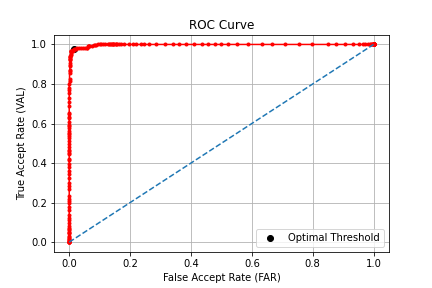
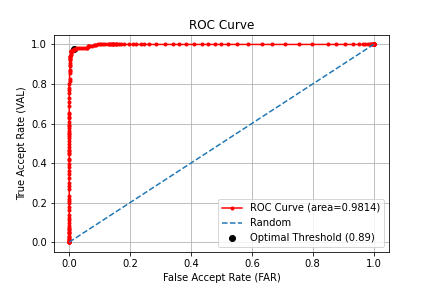
Added Media files and Updated README.md

Changed region(s): [[0.5116, 0.6875, 0.9028, 0.875]]

diff --git a/facenet/README.md b/facenet/README.md
@@ -1,8 +1,123 @@
+## Table of Content
+* [FaceNet](#facenet)
+* [W&B](#wb)
+* [AT&T Faces](#att-faces--)
+* [LFW](#lfw-)
+
 # FaceNet
 
-This is a pytorch implementation of [FaceNet](https://arxiv.org/abs/1503.03832) paper with ResNet as the backbone architechture. At first the implementation was done on AT&T Dataset of Faces, then on LFW Dataset.
+[FaceNet](https://arxiv.org/abs/1503.03832) is a face recognition system developed in 2015 by researchers at Google that achieved then state-of-the-art results. It maps the face images to euclidean space and learns on the L2 distance between the embeddings. Our paper notes on FaceNet can be found [here](https://hackmd.io/@ABD/SJa0J7_Od). 
 
-[Wandb](https://wandb.ai/) was used throughout this part of the project for metric tracking, hyperparameter tuning, visualization, etc. The wandb workspace can be viewed [here](https://wandb.ai/abd1/Face-Unlock).
+This is a pytorch implementation of FaceNet paper with ResNet as the backbone architechture. At first the implementation was done on AT&T Dataset of Faces, then on LFW Dataset.
+We used online triplet mining method for selecting triplets. 
+
+# W&B
+[Wandb](https://wandb.ai/) was used throughout this part of the <a href="https://wandb.ai/abd1/Face-Unlock" alt="wandb/Face-Unlock">project</a> for metric tracking, hyperparameter tuning, sweeps, visualization, etc. 
+
+<p align="center">
+    <img src="media/wandb.png" width="90%">
+    <img src="media/wandb_sweep.png" width="90%">
+    <br>
+    <small><a href="https://wandb.ai/abd1/Face-Unlock/runs/c9fk2oj3">(a) Metrics of ResNet18 on LFW</a> <a href="https://wandb.ai/abd1/Face-Unlock/sweeps/vq62ojvw">(b) Sweeps of ResNet18 on ATT</a></small>
+</P>
+
+
+# AT&T Faces  [![Open In Collab](https://colab.research.google.com/assets/colab-badge.svg)](https://colab.research.google.com/github/ABD-01/Face-Unlock/blob/master/facenet/FaceNet.ipynb)
+
+
+The dataset was split in [35 training classes](media/train_data_ATT.png) and [5 test classes](media/test_data_ATT.png)
+
+### Training
+
+|          Parameter          |    Value   |
+|:---------------------------:|:----------:|
+|        Architechture        |  ResNet18  |
+|     Embeddings Dimension    |     64     |
+| No. of Learnable Parameters | 11,209,344 |
+|            Epochs           |     200    |
+|        Learning Rate        |   0.0002   |
+|          Optimizer          |    Adam    |
+|          Batch Size         |     100    |
+|            Margin           |      1     |
+
+
+### Results
+|            Results           | Train Set | Test Set |
+|:----------------------------:|:---------:|:--------:|
+|           Accuracy           |    1.0    |   0.984  |
+|            Recall            |    1.0    |   0.978  |
+|           Precision          |    1.0    |   0.936  |
+|     ROC area under curve     |    1.0    |   0.981  |
+| Euclidean Distance Threshold |    0.91   |   0.89   |
+
+### Plots
+
+<p align="center">
+    <img src="media/EpochLoss_ATT.png" alt="EpochLoss"  width="400px" height="350px">
+    <img src="media/EER_ATT_testdataset.png" alt="EER Curve"  width="400px" height="350px">
+    <img src="media/ROC_curve_ATT_train_dataset.png" alt="ROC curve"  width="400px" height="350px">
+    <img src="media/ROC_curve_ATT_test_dataset.png" alt="ROC Curve"  width="400px" height="350px"> 
+    <img src="media/tSNE_embds_ATT_train.png" alt="t-SNE Embeddings"  width="400px" height="350px">
+    <br>
+    <small>(a) Epoch Loss. (b) EER Curve. (c) t-SNE Emdeddings.<br>(d) ROC Curve on train set. (e) ROC Curve on test set</small>
+</p>
 
 
 
+# LFW [![Open In Collab](https://colab.research.google.com/assets/colab-badge.svg)](https://colab.research.google.com/github/ABD-01/Face-Unlock/blob/master/facenet/FaceNet_LFW.ipynb)
+
+[Deep Funneled](http://vis-www.cs.umass.edu/lfw/#deepfunnel-anchor) set of LFW images was used for training and evaluation purpose. 
+
+The faces were extracted by center crop and then resized to match input shape. Further they were normalized overall data's mean and standard deviation.
+```py
+MEAN = torch.Tensor([0.5929, 0.4496, 0.3654])
+STD = torch.Tensor([0.2287, 0.1959, 0.1876])
+transform = transforms.Compose([
+    transforms.CenterCrop((105,105)),
+    transforms.Resize((224,224)),
+    transforms.ToTensor(),
+    transforms.Normalize(mean=MEAN, std=STD),
+])
+```
+[LFWDataset.py](./../datasets/LFWDataset.py) contains the custom dataset classes for loading LFW data in both restricted and unrestricted configurations.
+Eg,
+```py
+train_people = LFW_People(
+    root = 'lfw_funneled',
+    people_path = 'drive/MyDrive/lfw-dataset/peopleDevTrain.txt',
+    transform = transform
+)
+test_pairs = LFW_Pairs(
+    root = 'lfw_funneled',
+    pairs_path = 'drive/MyDrive/lfw-dataset/pairsDevTest.txt',
+    transform = transform
+)
+```
+
+|                                 | Training   |                                                                 |
+|---------------------------------|------------|-----------------------------------------------------------------|
+|          Architechture          |  ResNet-18 |                            ResNet-44                            |
+|     Embeddings<br> Dimension    |     128    |                               128                               |
+| No. of Learnable <br>Parameters | 11,209,344 |                            21,535,936                           |
+|              Epochs             |     100    |                                16                               |
+|          Learning Rate          |   0.0004   | start=0.05<br>ReduceLROnPlateau(factor=0.5,<br> min_lr=0.00001) |
+|            Batch Size           |     64     |                               100                               |
+
+|  Results  | ResNet18 | ResNet44 |
+|:---------:|:--------:|:--------:|
+|  Accuracy |   0.814  |   0.564  |
+|   Recall  |   0.750  |   0.459  |
+|    FAR    |   0.127  |   0.332  |
+| Precision |   0.856  |   0.58   |
+| Threshold |   1.28   |   1.36   |
+
+### Plots
+
+<p align="center">
+    <img src="media/EpochLoss_LFW.png" alt="EpochLoss"  width="400px" height="350px">
+    <img src="media/ROC_curve_LFW.png" alt="ROC curve"  width="400px" height="350px">
+    <img src="media/EpochLoss_resnet44.png" alt="EpochLoss44"  width="400px" height="350px">
+    <img src="media/ROC_curve_LFW_44.png" alt="ROC Curve"  width="400px" height="350px"> 
+    <br>
+    <small>(a) Epoch Loss. (b) EER Curve. (c) t-SNE Emdeddings.<br>(d) ROC Curve on train set. (e) ROC Curve on test set</small>
+</p>

diff --git a/README.md b/README.md
@@ -2,7 +2,7 @@
 
 This is Face-Unlock repository of IvLabs and contains the implementation of Triplet Network and FaceNet with ResNet as the backbone architechture implemented from scratch to perform one-shot and zero-shot learning on different datasets.
 
-Our work is categorized in two parts.
+Our work is categorized as following:
 
 - [x] [Triplet Network](triplet_network)
   - [X] Triplet Loss on MNIST
@@ -12,10 +12,16 @@ Our work is categorized in two parts.
 - [x] [FaceNet](facenet)
   - [x] AT&T Dataset
   - [x] LFW Dataset
+  - [ ] Glint360k Dataset
 
-Datasets
+- [ ] Real-Time Face Recognition
+  - [ ] Hosting Web based implementation
+  - [ ] Integrating with Rasberry Pi
 
-* [The AT&T face dataset, “(formerly ‘The ORL Database of Faces’)](https://git-disl.github.io/GTDLBench/datasets/att_face_dataset/) 
+
+## Datasets
+
+* [The AT&T face dataset](https://git-disl.github.io/GTDLBench/datasets/att_face_dataset/) 
   
     There are 10 different images of each of 40 distinct subjects.
 
@@ -34,12 +40,16 @@ Datasets
     1. 13233 images
     2. 5749 people
     3. 1680 people with two or more images
-  
+
+## ResNet
+
+A part of this project was also to understand and implement Residual Networks from scratch which can be found in [model.py](model.py)
 
 References
 
 - [Deep Residual Learning for Image Recognition](https://arxiv.org/abs/1512.03385)
 - [Understanding and visualizing ResNets](https://towardsdatascience.com/understanding-and-visualizing-resnets-442284831be8)
 - [FaceNet: A Unified Embedding for Face Recognition and Clustering](https://arxiv.org/abs/1503.03832)
+- [Triplet Loss and Online Triplet Mining in TensorFlow](https://omoindrot.github.io/triplet-loss)
 - [facenet-pytorch-glint360k](https://github.com/tamerthamoqa/facenet-pytorch-glint360k)
 

diff --git a/triplet_network/README.md b/triplet_network/README.md
@@ -34,7 +34,7 @@ The model was trained only on `100 images of classes 0, 1 and 2`, rest images we
 | Accuracy | 97.99% | 98.60% | 97.85% | 95.85% | 99.79% | 97.28% | 99.83% | 89.20% | 98.73% | 98.31% |
 
 
-## [Triplet Net on AT&T Dataset](Triplet%20Net%20ORL) [![Open In Collab](https://colab.research.google.com/assets/colab-badge.svg)](https://colab.research.google.com/github/ABD-01/Siamese-NN/blob/master/Siamese_ORL_ResNet/Siamese_ORL(ResNet).ipynb)
+## [Triplet Net on AT&T Dataset](Triplet%20Net%20ATT) [![Open In Collab](https://colab.research.google.com/assets/colab-badge.svg)](https://colab.research.google.com/github/ABD-01/Face-Unlock/blob/master/triplet_network/Triplet%20Net%20ATT/Siamese_ORL(ResNet).ipynb)
 
 
 The dataset was first used to train model with simple CNN, later ResNets implemented from scratch were used for different aproaches.
@@ -54,4 +54,6 @@ Offline triplet selection method was implied during the training and turned out 
   <img src = "Triplet%20Net%20ATT/media/siamese-orl-loss%20on%2030classes(resnet).png" width="450px" height="390px"/>
   <img src = "Triplet%20Net%20ATT/media/siamese-orl-loss%20on%2038classes(resnet18)6.png" width="450px" height="390px"/>
   <img src = "Triplet%20Net%20ATT/media/siamese-orl-accuracy%20on%2030classes(resnet)1.png" width="450px" height="390px"/>
+  <br>
+  <small>(a)Epoch Loss(CNN). (b)Epoch Loss(ResNet-18). (c)Epoch Loss(ResNet-18). (d)Accuracy Curves</small>
 </p>
